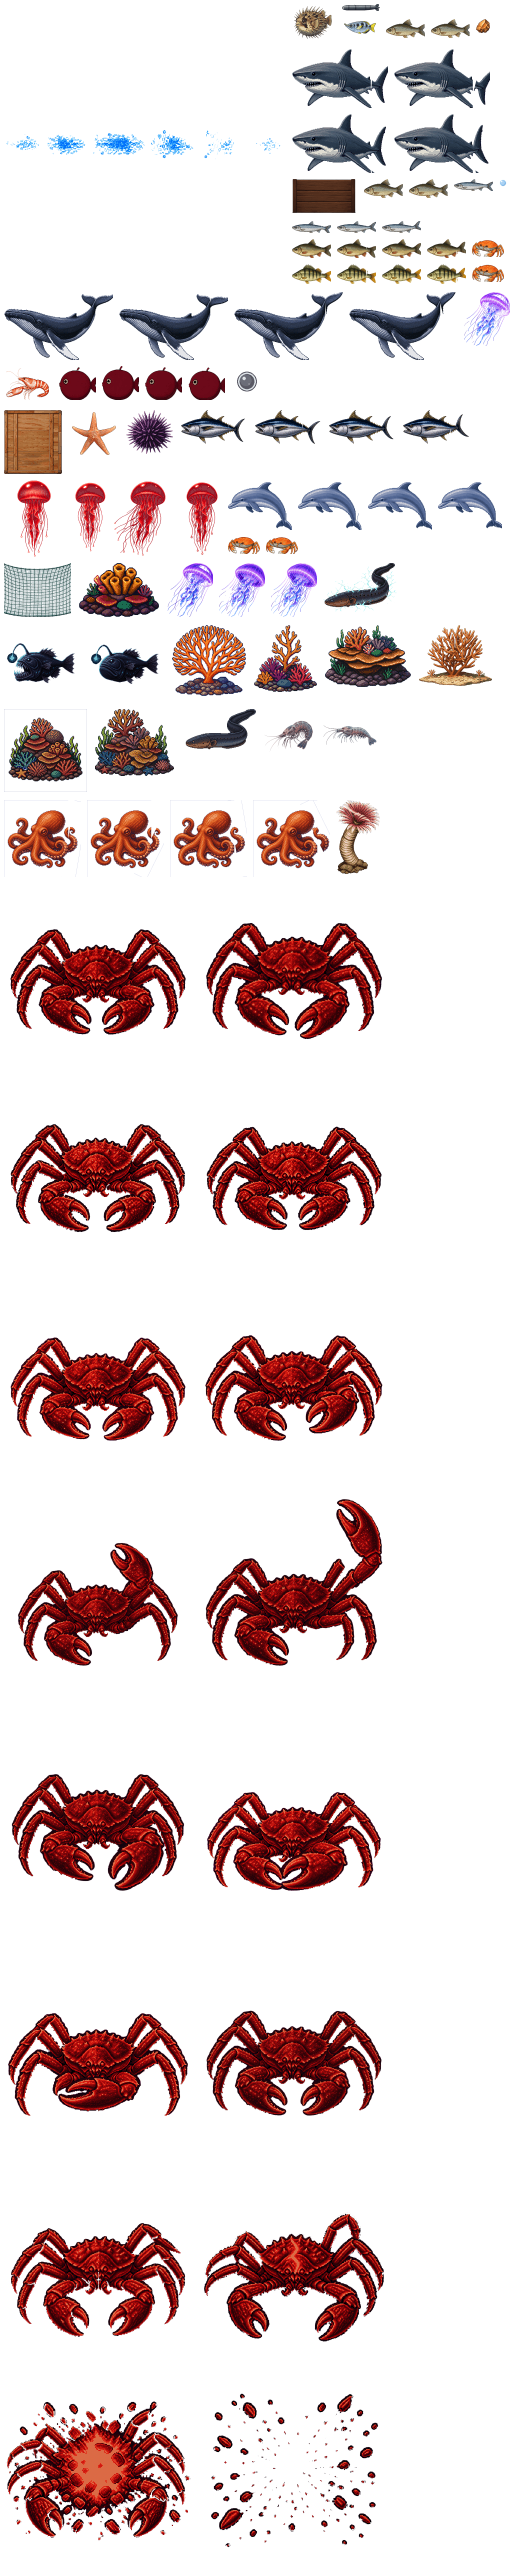
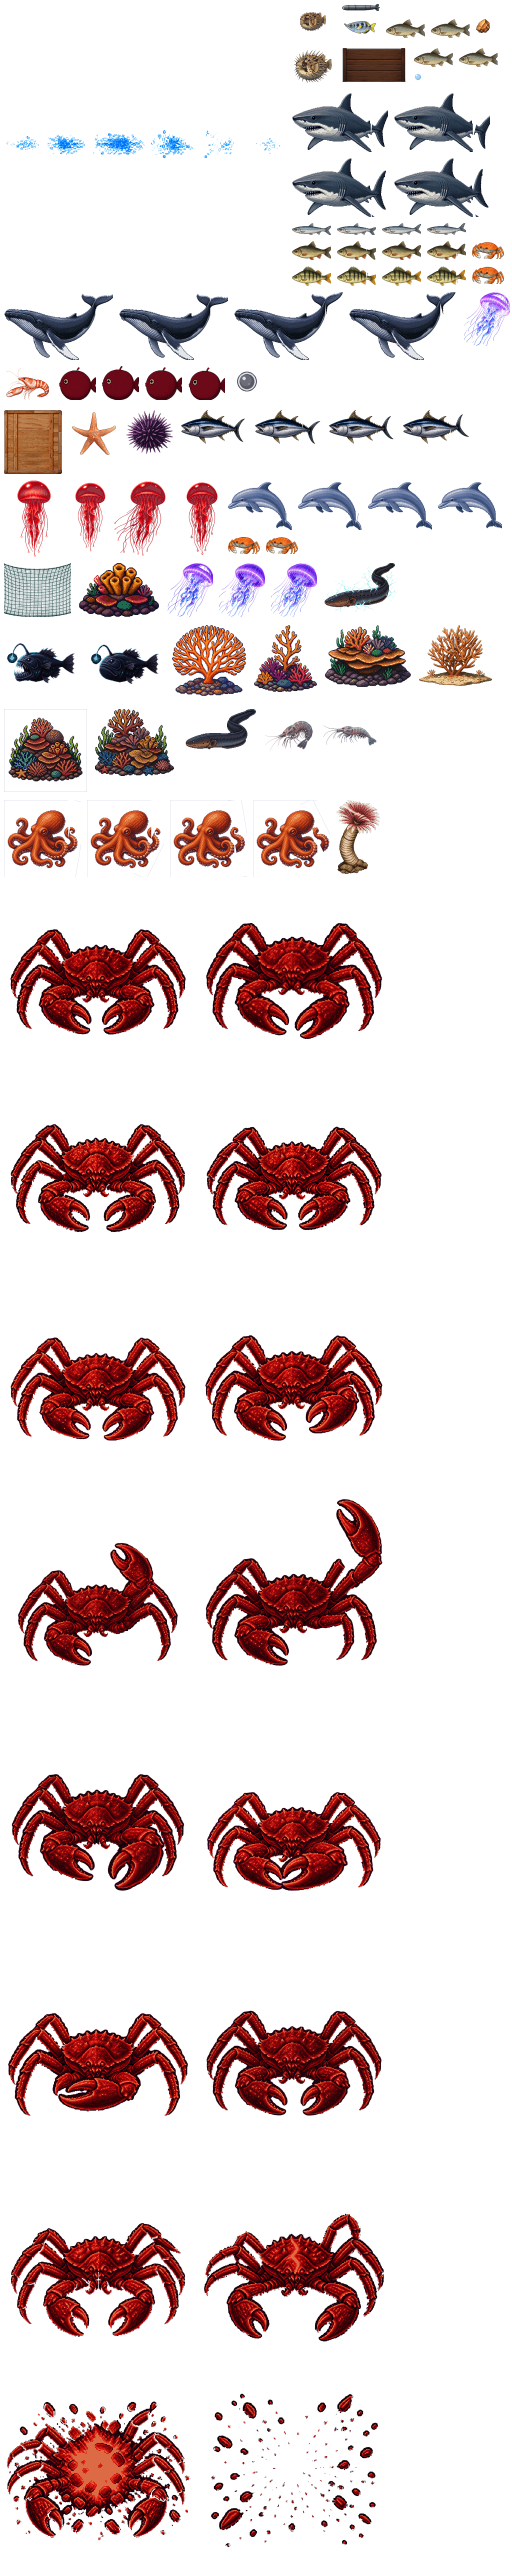
The puffer deflates again: a second state that has to be SMALLER, which is the case the pipeline could not do
`drawPuffer` says the spikes ARE the counter's state, and the window they describe -- `counterRest > 0`,
the seconds in which shooting the puffer is free -- is drawn as a smaller, dimmer ball with the spikes
cut to stubs. With a picture and no second state, hot and cold looked identical, which is the one gap
the README had written down.

`hazardArt.puffer.charge` points at `刺魨-瘪` now and `POSE_RULES.puffer` switches to it, and the
interesting half is that a picture CANNOT just be made smaller by asking for a smaller puffer.
`import-picture.py` crops every picture to its own content box and scales that to the grid width, so a
deflated puffer came out exactly as wide as the inflated one -- spikes shorter, BODY BIGGER, saying the
opposite of what it means.

`pixelate_aligned` is the way out, and the number in it is measured rather than guessed: the drawn
version's own proportions are body x0.72 and spikes x0.35, so the deflated silhouette is
(2*0.72 + 2*0.35) = 2.14r against the inflated (2*0.95 + 2*0.75) = 3.4r -- **0.63**. The new picture is
placed at 0.63 of the base's content width, on the base's content box, with the base's own PALETTE, so
the two states are one creature rather than two pictures that happen to sit near each other. The
reference for it is not a new photograph either: it is `generated-images/gunners/刺魨.png`, the inflating
puffer's own pre-pixelation render, which makes "the same creature, a different state" true by
[…]

Changed region(s): [[0.5625, 0.0, 1.0, 0.1248]]

diff --git a/.claude/skills/game-asset/scripts/asset_flow.py b/.claude/skills/game-asset/scripts/asset_flow.py
@@ -446,6 +446,9 @@ def command_new(arguments):
             "aspect": entry.get("aspect") or "1:1",
             "candidateCount": int(entry.get("candidates") or DEFAULT_CANDIDATES),
             "alpha": float(entry.get("alpha") or 1.0),
+            "state": entry.get("state"),
+            "alignTo": entry.get("alignTo"),
+            "alignRatio": float(entry.get("alignRatio") or 0.63),
             "swayDegrees": float(entry.get("swayDegrees") or 0.0),
             "swaySeconds": float(entry.get("swaySeconds") or 6.0),
             "prompt": entry.get("prompt") or "",
@@ -714,12 +717,27 @@ def command_pixelate(arguments):
                 say(f"    candidate {candidate['index']}: {raw.name} is missing, skipping")
                 continue
             sprite_name = f"{asset['name']}-候选{candidate['index']}"
-            run_tool([
-                python, ROOT / "scripts" / "import-picture.py", raw,
-                "--name", sprite_name, "--grid", grid,
-                "--colours", asset["colours"],
-                "--out-dir", directory / "candidates",
-            ])
+            if asset.get("alignTo"):
+                # A second state of a creature that already has one: same canvas, same palette, smaller. See
+                # `pixelate_aligned` -- and note the template is the SHIPPED file, not the raw render, so what this
+                # lines up against is what the game is actually drawing.
+                template = ASSETS / f"{asset['alignTo']}.png"
+                if not template.exists():
+                    fail(f"{asset['name']} says alignTo {asset['alignTo']!r}, but {template} does not exist -- "
+                         f"the base picture has to be imported first")
+                result = pixelate_aligned(
+                    raw, directory / "candidates", sprite_name, grid, asset["colours"],
+                    template, float(asset.get("alignRatio") or 0.63),
+                )
+                say(f"    aligned to {template.name}: content {result['templateWidth']}px canvas, "
+                    f"drawn at {float(asset.get('alignRatio') or 0.63):.2f} of it")
+            else:
+                run_tool([
+                    python, ROOT / "scripts" / "import-picture.py", raw,
+                    "--name", sprite_name, "--grid", grid,
+                    "--colours", asset["colours"],
+                    "--out-dir", directory / "candidates",
+                ])
             sprite = directory / "candidates" / f"{sprite_name}.png"
             if sprite.exists():
                 width, height = png_size(sprite)
@@ -1163,6 +1181,61 @@ def _render_frames(asset, directory, raw_frames, arguments):
     print_boil(asset["boil"])
 
 
+def content_box_of(image, threshold=ALPHA_FLOOR):
+    alpha = np.array(image)[:, :, 3] > threshold
+    if not alpha.any():
+        fail("a picture has no opaque pixels at all")
+    ys, xs = np.where(alpha)
+    return (int(xs.min()), int(ys.min()), int(xs.max()) + 1, int(ys.max()) + 1)
+
+
+def pixelate_aligned(source, out_dir, name, grid, colours, template, ratio, margin=IMPORTER_MARGIN):
+    """
+    Pixelate `source` on the SAME canvas and with the SAME palette as `template`, at `ratio` of its width.
+
+    FOR THE PUFFER, and the puffer is the case that needs it. A creature can have a second state whose whole point is
+    that it is SMALLER -- the puffer deflates while its counter is cooling, and `drawPuffer`'s own comment says the
+    spikes ARE that state rather than decoration. But `import-picture.py` crops to content and scales the result to
+    the grid width, so a picture of a deflated puffer comes out exactly as wide as the inflated one: the spikes get
+    shorter and the BODY gets bigger, which says the opposite of what it means.
+
+    So this one is not cropped to its own box and not scaled to the grid. It is placed, at `ratio` of the template's
+    content width, on a canvas sized to the template's content box -- and pixelated at the same grid with the
+    template's own palette, so the two states are one creature rather than two pictures that happen to be near each
+    other. `ratio` comes from the DRAWN version's proportions (2.14r / 3.4r = 0.63), which is a measurement rather
+    than a guess.
+    """
+    base = Image.open(template).convert("RGBA")
+    base_box = content_box_of(base)
+    box_w = base_box[2] - base_box[0]
+    box_h = base_box[3] - base_box[1]
+
+    art = Image.open(source).convert("RGBA")
+    art_box = content_box_of(art)
+    art_content = art.crop(art_box)
+
+    target_w = max(1, round(box_w * ratio))
+    target_h = max(1, round(art_content.height * target_w / art_content.width))
+    if target_h > box_h:
+        target_h = box_h
+        target_w = max(1, round(art_content.width * target_h / art_content.height))
+    scaled = art_content.resize((target_w, target_h), Image.LANCZOS)
+
+    canvas = Image.new("RGBA", (box_w, box_h), (0, 0, 0, 0))
+    canvas.alpha_composite(scaled, ((box_w - target_w) // 2, (box_h - target_h) // 2))
+
+    # The TEMPLATE's palette, not this picture's: one creature, one set of colours.
+    palette = base.crop(base_box).convert("RGB").quantize(colors=colours, method=Image.MEDIANCUT)
+    piece, _ = pipeline().pixelate(canvas, grid, palette, colours)
+
+    padded = Image.new("RGBA", (piece.width + margin * 2, piece.height + margin * 2), (0, 0, 0, 0))
+    padded.alpha_composite(piece, (margin, margin))
+    out_dir.mkdir(parents=True, exist_ok=True)
+    target = out_dir / f"{name}.png"
+    padded.save(target, optimize=True)
+    return {"path": target, "width": padded.width, "height": padded.height, "templateWidth": box_w}
+
+
 def command_idle(arguments):
     """
     Turn the selected candidate into an idle animation, two ways, with the choice made deliberately.
@@ -1567,6 +1640,35 @@ def wire_obstacle(text, kind, image, scale, alpha=1.0, sway_degrees=0.0, sway_se
     return text, image
 
 
+def wire_hazard_state(text, kind, key, value):
+    """
+    Add one state (`charge`, `dead`, ...) to a `hazardArt` row that already exists.
+
+    The puffer's shape: it has a `move` picture already, and the thing it was missing is a second STATE rather than a
+    second creature. `wire_hazard` creates a whole row and refuses when one is there -- which is right for a new kind
+    and wrong for this, so the two are separate edits for the same reason `wire_obstacle` and `wire_variant` are.
+    """
+    hazard_at = object_open(text, "hazardArt")
+    if hazard_at < 0:
+        return text, None
+    row_at = object_open(text, kind, hazard_at)
+    if row_at < 0:
+        return text, None
+    close_at = container_close(text, row_at)
+    if close_at < 0:
+        return text, None
+    if f'"{key}"' in text[row_at:close_at]:
+        return text, None
+    indent = member_indent(text, close_at)
+    text = insert_before_close(
+        text,
+        close_at,
+        f'{indent}// {key}：{value}。这张是同一个生物的第二副样子，不是另一个种类。\n'
+        f'{indent}"{key}": "{value}"\n',
+    )
+    return text, value
+
+
 def wire_hazard(text, kind, image, scale, animation=None):
     """
     Point a CREATURE's `hazardArt.<kind>.move` at a picture, declaring the animation when the picture is one.
@@ -1679,6 +1781,11 @@ def command_import(arguments):
                 float(asset.get("swaySeconds") or 6.0),
             )
             described = f'obstacles.art.{asset["kind"]} -> "{added}" (scale {scale:g})'
+        elif asset.get("state"):
+            # A SECOND STATE of a creature that already has art -- the puffer deflating, which is the one gap the
+            # README had written down. It adds a key to the existing row rather than creating a row.
+            updated, added = wire_hazard_state(text, asset["kind"], asset["state"], asset["name"])
+            described = f'hazardArt.{asset["kind"]}.{asset["state"]} -> "{added}"'
         else:
             # A CREATURE: `hazardArt.<kind>.move` points at a still or at an animation, and an animation needs its
             # own row declared. The frames are the ones this asset just produced, named `<asset>-move-N`.

diff --git a/README.md b/README.md
@@ -924,9 +924,16 @@ pnpm atlas                                   # 重新打包
 但每条腕都跑到了错的一侧，而五重对称让这个错误**不会以"翻过来了"的样子暴露自己**。
 `volleyBaseRadians` 是图里第一条腕的朝向（从原图剪影量出来是 20°），只负责把图自己的朝向对到齐射的 0 度。
 
-**已知缺口：刺魨在反击冷却时不再瘪下去。** 代码画的那版在 `counterRest > 0` 时把刺缩成短桩、身体变暗，
-那是"现在打它免费"的**唯一**提示；贴图版只有一张图，所以冷热一个样。补法 = 再生成一张瘪下去的图挂到 `charge`，
-再给 `puffer` 加一条 pose 规则（`hazards.ts` 的 `POSE_RULES`）。
+**缺口已补：刺魨反击冷却时会瘪下去。** 代码画的那版在 `counterRest > 0` 时把刺缩成短桩、身体变暗，
+那是"现在打它免费"的**唯一**提示；贴图版原本只有一张图，冷热一个样。现在 `hazardArt.puffer.charge` 指着
+`刺魨-瘪`，`POSE_RULES.puffer` 在 `counterRest > 0` 时切到它。
+
+**它和别的第二张图不一样，值是量出来的。** 代码版的比例是身体 ×0.72、刺 ×0.35，也就是瘪下去的轮廓
+`(2×0.72 + 2×0.35) = 2.14r` 对充气的 `(2×0.95 + 2×0.75) = 3.4r` —— **0.63**。而 `import-picture.py` 会把每张图
+裁到自己的内容框再缩到网格宽度，所以一张"瘪下去的刺魨"出来会和充气版**一样宽**：刺变短、身子反而更大，
+**正好说反**。解法是 `asset_flow.py` 的 `pixelate_aligned`——不裁自己，按 0.63 放在**充气版的内容框**上，
+并用**同一套调色板**（同一个生物，一套颜色）。参考图也不是新找的照片，而是 `generated-images/gunners/刺魨.png`，
+即那只充气刺魨像素化前的渲染：这样"同一只东西换个状态"是**由构造保证**的。
 
 **要重做这一批**：四张照片（含许可出处）、种过透明种子的输入、frame spec（提示词先行的那份 JSON，改词即可重跑）
 和重绘结果都在 `.scratch/gunners/`——按 `.gitignore` 是**本机草稿、不入库**。入库的只有两样：
@@ -934,7 +941,7 @@ pnpm atlas                                   # 重新打包
 
 ### 原图：`generated-images/` 里只留"入过库的那几张图的原图"
 
-`generated-images/` 现在**只有 60 个文件 / 66 MB**，都是已经进了 `src/assets/` 的图的原图；管线跑出来的中间产物
+`generated-images/` 现在**只有 61 个文件 / 67 MB**，都是已经进了 `src/assets/` 的图的原图；管线跑出来的中间产物
 （各种 `sheet/`、棋盘格对比图、GIF、像素候选、`alpha-*` / `probe` / `edge-test` 这类探针、分层实验）
 **全部删除**。当年那次清理把目录从 264 个文件 / 203 MB 降到 29 个 / 5.1 MB，之后每加一批美术才多几张原图。
 
@@ -947,7 +954,7 @@ pnpm atlas                                   # 重新打包
 | `fish/`（4 张） | 小鱼的四个品种 | `小鱼*-游动-1..4` |
 | `decor/`（11 张） | 障碍物的贴图 | 珊瑚 ×6 / 管虫 / 木箱 / 封路木箱 / 渔网 |
 | `hazards/`（5 张） | 把代码画的占位换成贴图的五个生物 | `矿物颗粒` / `失控鱼雷` / `螃蟹` / `炸弹鱼` / `电击水母` |
-| `gunners/`（4 张） | 四位枪手像素化之前的原图（**已裁到内容框**，见上面一节） | `射水鱼` / `手枪虾` / `刺魨` / `海星` |
+| `gunners/`（5 张） | 四位枪手像素化之前的原图（**已裁到内容框**，见上面一节） | `射水鱼` / `手枪虾` / `刺魨` / `刺魨-瘪` / `海星` |
 | `tuna-sheet/raw.png` | 手画的那张金枪鱼 sprite sheet（`scripts/import-sheet.py` 的输入） | `金枪鱼-游动-1..4` |
 | `tuna/reference.png` | 金枪鱼的参考图 | 同上（`reference-raw.png` 与它逐字节相同，删掉了） |
 

diff --git a/.claude/skills/game-asset/SKILL.md b/.claude/skills/game-asset/SKILL.md
@@ -107,6 +107,22 @@ creatures: the bomb fish measured 2.4–3.7/255 (four frames of a uniform dark-r
 (tentacles ripple, which reads as motion). Measure all PAIRS, not frame 1 against the rest: one crab pair was 7.7
 while another was 33.3, and averaging over pairs starting at frame 1 hides which transition the eye will catch.
 
+**A SECOND STATE OF A CREATURE IS NOT A SECOND CREATURE.** The puffer deflates while its counter cools —
+`drawPuffer` says the spikes ARE that state — and a picture of a deflated puffer goes through
+`import-picture.py` like any other, which crops it to its own content box and scales that to the grid width. The
+result is a puffer EXACTLY as wide as the inflated one with shorter spikes and a bigger body: it says the opposite
+of what it means. `pixelate_aligned` is the way out — same canvas as the base picture, same palette, placed at
+`ratio` of the base's content width. The ratio is the DRAWN version's own proportion, measured not guessed:
+`(2*0.72 + 2*0.35) / (2*0.95 + 2*0.75) = 0.63`. A spec says `state: "charge"` (which wires a KEY onto the
+existing `hazardArt` row rather than creating one) and `alignTo: "<base asset>"`, and the base has to be imported
+first because the template is the SHIPPED file, not the raw render.
+
+**Give a second state a POSE RULE, and check what it is keyed on.** `poseOnWindup` knows about `h.charge` only, and
+the puffer has no charge — its window is `counterRest > 0` (the seconds in which shooting it is free, which is a
+different thing from a wind-up that is about to become an attack). `POSE_RULES.puffer = poseOnCounterRest` is the
+rule it needs; a `charge` picture with no rule is a picture the game never shows, and `hazardArtPose` is exported
+so the rule can be asked rather than assumed.
+
 ### The three numbers, and the check that keeps them honest
 
 Every picture in TGBA is drawn at **1.4 screen pixels per texel**, so:
